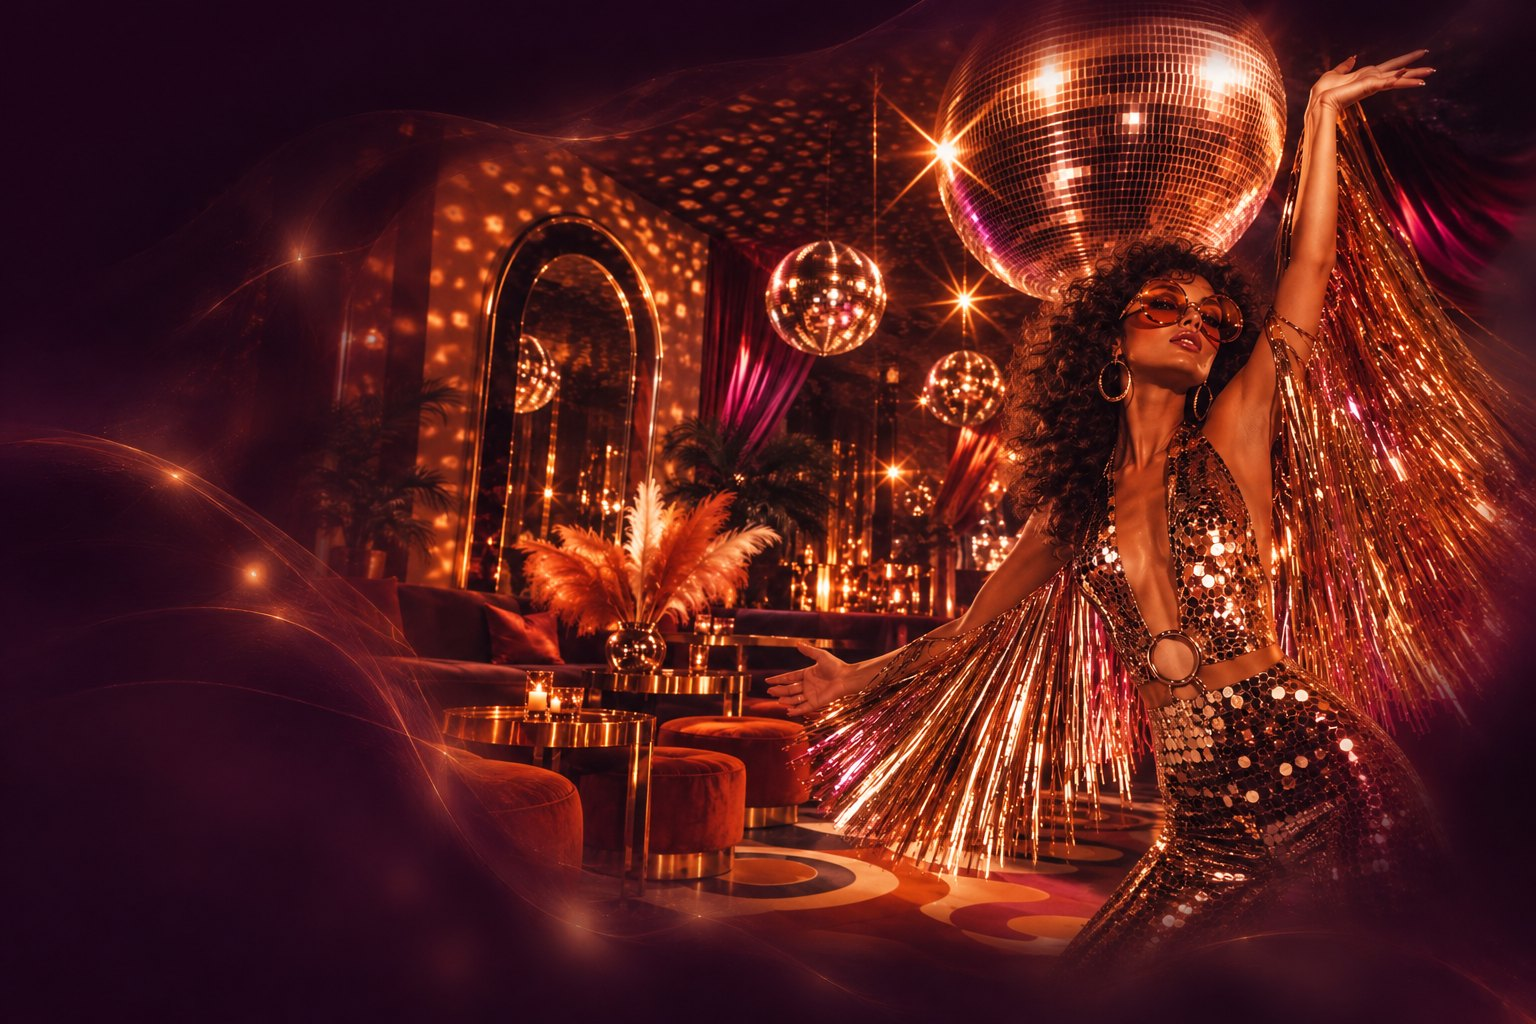
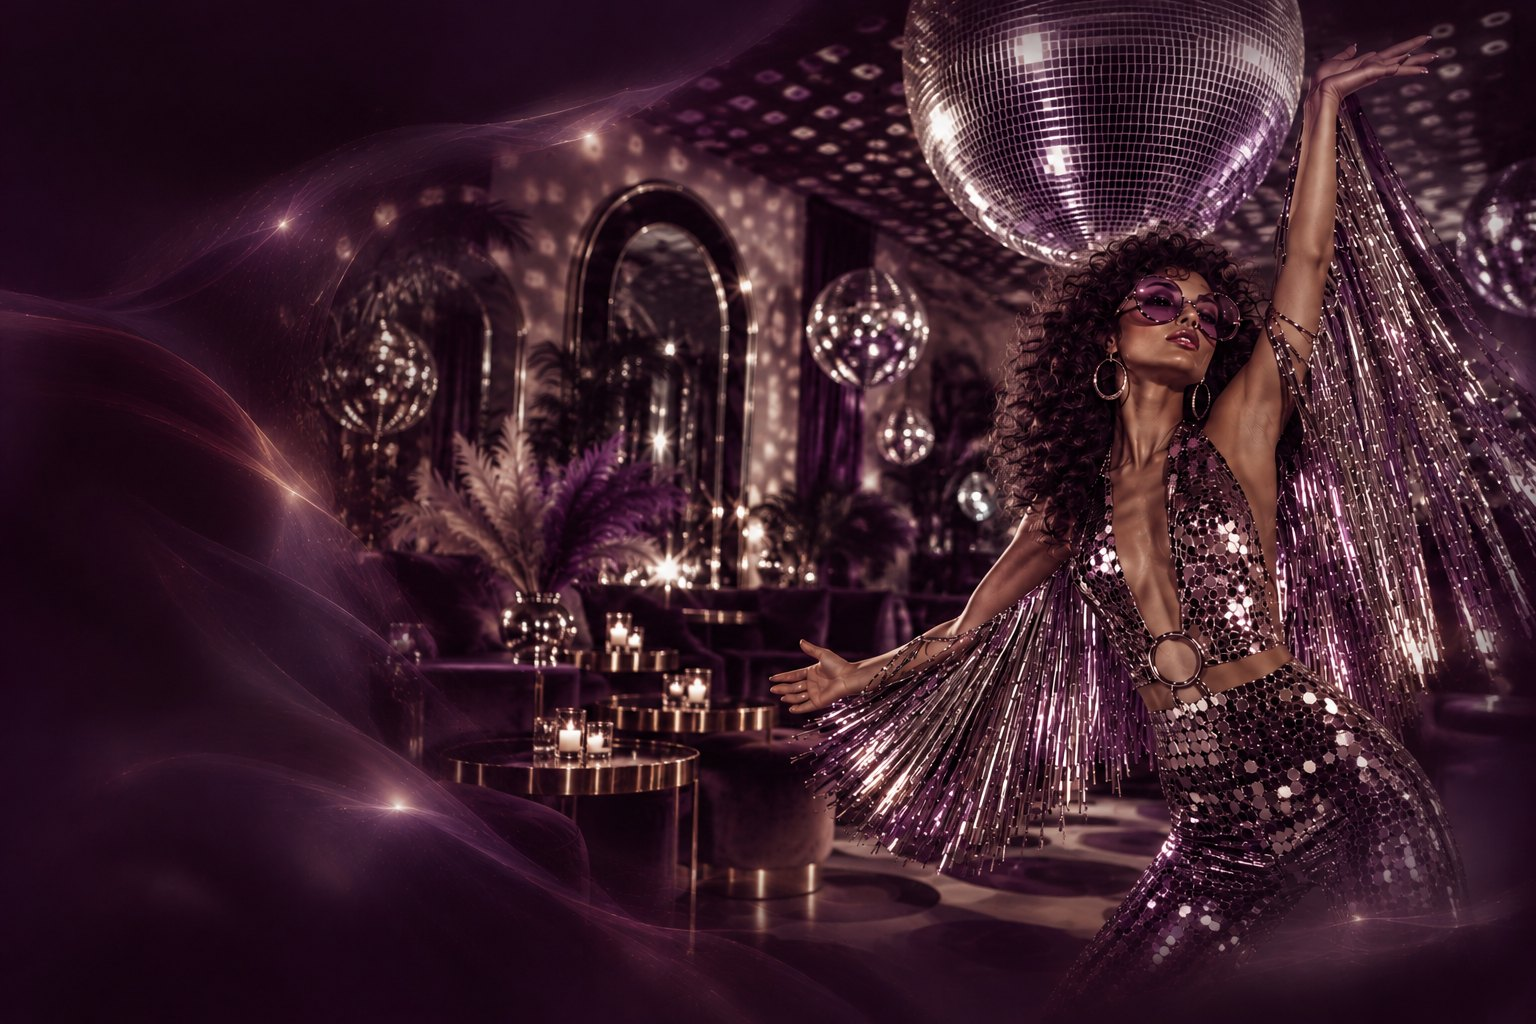
Add files via upload

diff --git a/index.html b/index.html
@@ -12,7 +12,7 @@
 <link rel="icon" href="assets/favicon.png">
 <link rel="preconnect" href="https://fonts.googleapis.com"><link rel="preconnect" href="https://fonts.gstatic.com" crossorigin>
 <link href="https://fonts.googleapis.com/css2?family=Cormorant+Garamond:ital,wght@0,300;0,400;0,500;1,300;1,400;1,500&family=Jost:wght@300;400;500&display=swap" rel="stylesheet">
-<link rel="stylesheet" href="css/style.css?v=20261015104614">
+<link rel="stylesheet" href="css/style.css?v=20261015110403">
 </head>
 <body data-page="home">
 <div id="site-header"></div>
@@ -40,8 +40,8 @@
 
   <!-- Who we are -->
   <section class="who-flow">
-    <div class="wf-blur" style="background-image:url(assets/photos/disco-lounge.jpg)" aria-hidden="true"></div>
-    <div class="wf-img" role="img" aria-label="Dancer in gold fringe under mirror balls in a velvet disco lounge" style="background-image:url(assets/photos/disco-lounge.jpg)"></div>
+    <div class="wf-blur" style="background-image:url(assets/photos/disco-lounge.jpg?v=2)" aria-hidden="true"></div>
+    <div class="wf-img" role="img" aria-label="Dancer in gold fringe under mirror balls in a velvet disco lounge" style="background-image:url(assets/photos/disco-lounge.jpg?v=2)"></div>
     <div class="wrap wf-wrap">
       <div class="wf-text reveal">
         <p class="eyebrow">Who we are</p>
@@ -258,7 +258,7 @@
 </main>
 
 <div id="site-footer"></div>
-<script src="js/config.js?v=20261015104614"></script>
-<script src="js/main.js?v=20261015104614"></script>
+<script src="js/config.js?v=20261015110403"></script>
+<script src="js/main.js?v=20261015110403"></script>
 </body>
 </html>
